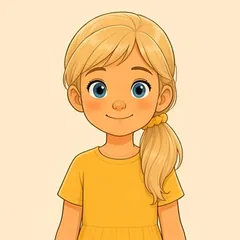
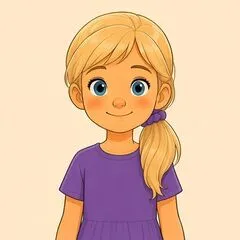
Samantha portrait: purple dress (#20)

diff --git a/friends.html b/friends.html
@@ -32,7 +32,7 @@
 </div></section>
 <section style="padding-top:0"><div class="wrap">
  <picture><source type="image/webp" srcset="assets/garden-friends-720.webp 720w, assets/garden-friends-1200.webp 1200w" sizes="(min-width:700px) 50vw, 100vw"><img class="art" src="assets/garden-friends-720.jpg" srcset="assets/garden-friends-720.jpg 720w, assets/garden-friends-1200.jpg 1200w" sizes="(min-width:700px) 50vw, 100vw" width="1200" height="675" loading="lazy" alt="Gracie sits on a garden bench with her hands folded in prayer, eyes closed and smiling. Pip the Lamb, wearing his blue collar and wooden prayer beads, rests beside her, and Honey the Bumblebee hovers nearby."></picture>
- <ul class="cast"><li><picture class="cast-pic"><source type="image/webp" srcset="assets/gracie-portrait-240.webp 240w, assets/gracie-portrait-480.webp 480w" sizes="88px"><img loading="lazy" src="assets/gracie-portrait-240.jpg" srcset="assets/gracie-portrait-240.jpg 240w, assets/gracie-portrait-480.jpg 480w" sizes="88px" width="240" height="240" alt="Gracie the gardener smiles and waves, wearing her straw hat with a white daisy, a long auburn braid, a yellow shirt, blue overalls and a small gold cross."></picture><h3><span class="emoji" aria-hidden="true">🌻</span>Gracie the gardener</h3><p>Our cheerful big-sister gardener, with a daisy on her straw hat and a little ukulele. Gracie tends the prayer garden and leads the songs and prayers.</p></li><li><picture class="cast-pic"><source type="image/webp" srcset="assets/honey-portrait-240.webp 240w, assets/honey-portrait-480.webp 480w" sizes="88px"><img loading="lazy" src="assets/honey-portrait-240.jpg" srcset="assets/honey-portrait-240.jpg 240w, assets/honey-portrait-480.jpg 480w" sizes="88px" width="240" height="240" alt="Honey the Bumblebee, a round, fuzzy yellow-and-black bee with big brown eyes, curly antennae and a happy smile."></picture><h3><span class="emoji" aria-hidden="true">🐝</span>Honey the Bumblebee</h3><p>A round, friendly bumblebee who buzzes in with a happy “Bzzz!” Honey loves to light the way and cheer everyone on.</p></li><li><picture class="cast-pic"><source type="image/webp" srcset="assets/pip-portrait-240.webp 240w, assets/pip-portrait-480.webp 480w" sizes="88px"><img loading="lazy" src="assets/pip-portrait-240.jpg" srcset="assets/pip-portrait-240.jpg 240w, assets/pip-portrait-480.jpg 480w" sizes="88px" width="240" height="240" alt="Pip the Lamb, a fluffy white boy lamb with big brown eyes and a soft blue collar tied at his neck."></picture><h3><span class="emoji" aria-hidden="true">🐑</span>Pip the Lamb</h3><p>A fluffy little boy lamb with a soft blue collar. Pip is curious and sometimes wanders off, so he knows just how much Jesus, the Good Shepherd, cares for every lamb.</p></li><li><picture class="cast-pic"><source type="image/webp" srcset="assets/ella-portrait-240.webp 240w, assets/ella-portrait-480.webp 480w" sizes="88px"><img loading="lazy" src="assets/ella-portrait-240.jpg" srcset="assets/ella-portrait-240.jpg 240w, assets/ella-portrait-480.jpg 480w" sizes="88px" width="240" height="240" alt="Ella smiles, with two long brown braids and a pink dress with white daisies."></picture><h3><span class="emoji" aria-hidden="true">🌼</span>Ella</h3><p>Kind-hearted and full of wonder, Ella loves making new friends and caring for all of God’s beautiful creatures. You’ll often find her singing a happy song, making crafts, or curled up with a favorite Bible story.</p></li><li><picture class="cast-pic"><source type="image/webp" srcset="assets/lyla-portrait-240.webp 240w, assets/lyla-portrait-480.webp 480w" sizes="88px"><img loading="lazy" src="assets/lyla-portrait-240.jpg" srcset="assets/lyla-portrait-240.jpg 240w, assets/lyla-portrait-480.jpg 480w" sizes="88px" width="240" height="240" alt="Lyla smiles, with long wavy blonde hair worn down and a cream dress with colorful butterflies."></picture><h3><span class="emoji" aria-hidden="true">🦋</span>Lyla</h3><p>Ella’s little sister has long wavy blonde hair and a heart full of giggles and big questions. Lyla loves to sing, make art, and help other kids discover how much Jesus loves them.</p></li><li><picture class="cast-pic"><source type="image/webp" srcset="assets/samantha-portrait-240.webp 240w, assets/samantha-portrait-480.webp 480w" sizes="88px"><img loading="lazy" src="assets/samantha-portrait-240.jpg" srcset="assets/samantha-portrait-240.jpg 240w, assets/samantha-portrait-480.jpg 480w" sizes="88px" width="240" height="240" alt="Samantha smiles, with light golden blonde hair in a side ponytail, blue eyes and a short-sleeve yellow dress."></picture><h3><span class="emoji" aria-hidden="true">🤸</span>Samantha</h3><p>Meet Samantha! Samantha loves gymnastics, making new friends, and all of God’s creatures, and her favorite color is purple. Look for her in our next Bible Adventure, Moses and the Red Sea, coming soon!</p></li><li><picture class="cast-pic"><source type="image/webp" srcset="assets/joy-portrait-240.webp 240w, assets/joy-portrait-480.webp 480w" sizes="88px"><img loading="lazy" src="assets/joy-portrait-240.jpg" srcset="assets/joy-portrait-240.jpg 240w, assets/joy-portrait-480.jpg 480w" sizes="88px" width="240" height="240" alt="Baby Joy sits and smiles, with a wisp of brown hair, rosy cheeks and a plain lavender footed onesie."></picture><h3><span class="emoji" aria-hidden="true">⭐</span>Baby Joy</h3><p>Joy is Ella and Lyla’s baby sister. She can’t say many words yet, but her giggles fill the whole house with happiness!</p></li><li><picture class="cast-pic"><source type="image/webp" srcset="assets/garden-kids-portrait-240.webp 240w, assets/garden-kids-portrait-480.webp 480w" sizes="88px"><img loading="lazy" src="assets/garden-kids-portrait-240.jpg" srcset="assets/garden-kids-portrait-240.jpg 240w, assets/garden-kids-portrait-480.jpg 480w" sizes="88px" width="240" height="240" alt="The Garden Kids in their winter coats: Tommy with round glasses, Josie with curly hair and a yellow headband, and Ben with copper curls and a striped scarf."></picture><h3><span class="emoji" aria-hidden="true">🌷</span>The Garden Kids</h3><p>The friends who play, sing and pray in the garden, and who are always ready to help someone feel welcome.</p></li></ul>
+ <ul class="cast"><li><picture class="cast-pic"><source type="image/webp" srcset="assets/gracie-portrait-240.webp 240w, assets/gracie-portrait-480.webp 480w" sizes="88px"><img loading="lazy" src="assets/gracie-portrait-240.jpg" srcset="assets/gracie-portrait-240.jpg 240w, assets/gracie-portrait-480.jpg 480w" sizes="88px" width="240" height="240" alt="Gracie the gardener smiles and waves, wearing her straw hat with a white daisy, a long auburn braid, a yellow shirt, blue overalls and a small gold cross."></picture><h3><span class="emoji" aria-hidden="true">🌻</span>Gracie the gardener</h3><p>Our cheerful big-sister gardener, with a daisy on her straw hat and a little ukulele. Gracie tends the prayer garden and leads the songs and prayers.</p></li><li><picture class="cast-pic"><source type="image/webp" srcset="assets/honey-portrait-240.webp 240w, assets/honey-portrait-480.webp 480w" sizes="88px"><img loading="lazy" src="assets/honey-portrait-240.jpg" srcset="assets/honey-portrait-240.jpg 240w, assets/honey-portrait-480.jpg 480w" sizes="88px" width="240" height="240" alt="Honey the Bumblebee, a round, fuzzy yellow-and-black bee with big brown eyes, curly antennae and a happy smile."></picture><h3><span class="emoji" aria-hidden="true">🐝</span>Honey the Bumblebee</h3><p>A round, friendly bumblebee who buzzes in with a happy “Bzzz!” Honey loves to light the way and cheer everyone on.</p></li><li><picture class="cast-pic"><source type="image/webp" srcset="assets/pip-portrait-240.webp 240w, assets/pip-portrait-480.webp 480w" sizes="88px"><img loading="lazy" src="assets/pip-portrait-240.jpg" srcset="assets/pip-portrait-240.jpg 240w, assets/pip-portrait-480.jpg 480w" sizes="88px" width="240" height="240" alt="Pip the Lamb, a fluffy white boy lamb with big brown eyes and a soft blue collar tied at his neck."></picture><h3><span class="emoji" aria-hidden="true">🐑</span>Pip the Lamb</h3><p>A fluffy little boy lamb with a soft blue collar. Pip is curious and sometimes wanders off, so he knows just how much Jesus, the Good Shepherd, cares for every lamb.</p></li><li><picture class="cast-pic"><source type="image/webp" srcset="assets/ella-portrait-240.webp 240w, assets/ella-portrait-480.webp 480w" sizes="88px"><img loading="lazy" src="assets/ella-portrait-240.jpg" srcset="assets/ella-portrait-240.jpg 240w, assets/ella-portrait-480.jpg 480w" sizes="88px" width="240" height="240" alt="Ella smiles, with two long brown braids and a pink dress with white daisies."></picture><h3><span class="emoji" aria-hidden="true">🌼</span>Ella</h3><p>Kind-hearted and full of wonder, Ella loves making new friends and caring for all of God’s beautiful creatures. You’ll often find her singing a happy song, making crafts, or curled up with a favorite Bible story.</p></li><li><picture class="cast-pic"><source type="image/webp" srcset="assets/lyla-portrait-240.webp 240w, assets/lyla-portrait-480.webp 480w" sizes="88px"><img loading="lazy" src="assets/lyla-portrait-240.jpg" srcset="assets/lyla-portrait-240.jpg 240w, assets/lyla-portrait-480.jpg 480w" sizes="88px" width="240" height="240" alt="Lyla smiles, with long wavy blonde hair worn down and a cream dress with colorful butterflies."></picture><h3><span class="emoji" aria-hidden="true">🦋</span>Lyla</h3><p>Ella’s little sister has long wavy blonde hair and a heart full of giggles and big questions. Lyla loves to sing, make art, and help other kids discover how much Jesus loves them.</p></li><li><picture class="cast-pic"><source type="image/webp" srcset="assets/samantha-portrait-240.webp 240w, assets/samantha-portrait-480.webp 480w" sizes="88px"><img loading="lazy" src="assets/samantha-portrait-240.jpg" srcset="assets/samantha-portrait-240.jpg 240w, assets/samantha-portrait-480.jpg 480w" sizes="88px" width="240" height="240" alt="Samantha smiles, with light golden blonde hair in a side ponytail, blue eyes and a short-sleeve purple dress with a purple scrunchie."></picture><h3><span class="emoji" aria-hidden="true">🤸</span>Samantha</h3><p>Meet Samantha! Samantha loves gymnastics, making new friends, and all of God’s creatures, and her favorite color is purple. Look for her in our next Bible Adventure, Moses and the Red Sea, coming soon!</p></li><li><picture class="cast-pic"><source type="image/webp" srcset="assets/joy-portrait-240.webp 240w, assets/joy-portrait-480.webp 480w" sizes="88px"><img loading="lazy" src="assets/joy-portrait-240.jpg" srcset="assets/joy-portrait-240.jpg 240w, assets/joy-portrait-480.jpg 480w" sizes="88px" width="240" height="240" alt="Baby Joy sits and smiles, with a wisp of brown hair, rosy cheeks and a plain lavender footed onesie."></picture><h3><span class="emoji" aria-hidden="true">⭐</span>Baby Joy</h3><p>Joy is Ella and Lyla’s baby sister. She can’t say many words yet, but her giggles fill the whole house with happiness!</p></li><li><picture class="cast-pic"><source type="image/webp" srcset="assets/garden-kids-portrait-240.webp 240w, assets/garden-kids-portrait-480.webp 480w" sizes="88px"><img loading="lazy" src="assets/garden-kids-portrait-240.jpg" srcset="assets/garden-kids-portrait-240.jpg 240w, assets/garden-kids-portrait-480.jpg 480w" sizes="88px" width="240" height="240" alt="The Garden Kids in their winter coats: Tommy with round glasses, Josie with curly hair and a yellow headband, and Ben with copper curls and a striped scarf."></picture><h3><span class="emoji" aria-hidden="true">🌷</span>The Garden Kids</h3><p>The friends who play, sing and pray in the garden, and who are always ready to help someone feel welcome.</p></li></ul>
 </div></section>
 <section class="band-honey"><div class="wrap center">
  <h2>See them in action</h2>

diff --git a/index.html b/index.html
@@ -113,7 +113,7 @@
  <div class="wrap">
   <div class="center"><span class="kicker">Meet the cast</span>
   <h2 id="cast">Friends in the prayer garden</h2></div>
-  <ul class="cast home"><li><picture class="cast-pic"><source type="image/webp" srcset="assets/gracie-portrait-240.webp 240w, assets/gracie-portrait-480.webp 480w" sizes="64px"><img loading="lazy" src="assets/gracie-portrait-240.jpg" srcset="assets/gracie-portrait-240.jpg 240w, assets/gracie-portrait-480.jpg 480w" sizes="64px" width="240" height="240" alt="Gracie the gardener smiles and waves, wearing her straw hat with a white daisy, a long auburn braid, a yellow shirt, blue overalls and a small gold cross."></picture><h3><span class="emoji" aria-hidden="true">🌻</span>Gracie the gardener</h3><p>Our cheerful gardener, with a daisy on her straw hat and a ukulele.</p></li><li><picture class="cast-pic"><source type="image/webp" srcset="assets/honey-portrait-240.webp 240w, assets/honey-portrait-480.webp 480w" sizes="64px"><img loading="lazy" src="assets/honey-portrait-240.jpg" srcset="assets/honey-portrait-240.jpg 240w, assets/honey-portrait-480.jpg 480w" sizes="64px" width="240" height="240" alt="Honey the Bumblebee, a round, fuzzy yellow-and-black bee with big brown eyes, curly antennae and a happy smile."></picture><h3><span class="emoji" aria-hidden="true">🐝</span>Honey the Bumblebee</h3><p>A round, friendly bee with a happy “Bzzz!”</p></li><li><picture class="cast-pic"><source type="image/webp" srcset="assets/pip-portrait-240.webp 240w, assets/pip-portrait-480.webp 480w" sizes="64px"><img loading="lazy" src="assets/pip-portrait-240.jpg" srcset="assets/pip-portrait-240.jpg 240w, assets/pip-portrait-480.jpg 480w" sizes="64px" width="240" height="240" alt="Pip the Lamb, a fluffy white boy lamb with big brown eyes and a soft blue collar tied at his neck."></picture><h3><span class="emoji" aria-hidden="true">🐑</span>Pip the Lamb</h3><p>A fluffy little boy lamb with a soft blue collar.</p></li><li><picture class="cast-pic"><source type="image/webp" srcset="assets/ella-portrait-240.webp 240w, assets/ella-portrait-480.webp 480w" sizes="64px"><img loading="lazy" src="assets/ella-portrait-240.jpg" srcset="assets/ella-portrait-240.jpg 240w, assets/ella-portrait-480.jpg 480w" sizes="64px" width="240" height="240" alt="Ella smiles, with two long brown braids and a pink dress with white daisies."></picture><h3><span class="emoji" aria-hidden="true">🌼</span>Ella</h3><p>Loves daisies, Bible stories and praying along.</p></li><li><picture class="cast-pic"><source type="image/webp" srcset="assets/lyla-portrait-240.webp 240w, assets/lyla-portrait-480.webp 480w" sizes="64px"><img loading="lazy" src="assets/lyla-portrait-240.jpg" srcset="assets/lyla-portrait-240.jpg 240w, assets/lyla-portrait-480.jpg 480w" sizes="64px" width="240" height="240" alt="Lyla smiles, with long wavy blonde hair worn down and a cream dress with colorful butterflies."></picture><h3><span class="emoji" aria-hidden="true">🦋</span>Lyla</h3><p>Ella’s little sister, who loves butterflies.</p></li><li><picture class="cast-pic"><source type="image/webp" srcset="assets/samantha-portrait-240.webp 240w, assets/samantha-portrait-480.webp 480w" sizes="64px"><img loading="lazy" src="assets/samantha-portrait-240.jpg" srcset="assets/samantha-portrait-240.jpg 240w, assets/samantha-portrait-480.jpg 480w" sizes="64px" width="240" height="240" alt="Samantha smiles, with light golden blonde hair in a side ponytail, blue eyes and a short-sleeve yellow dress."></picture><h3><span class="emoji" aria-hidden="true">🤸</span>Samantha</h3><p>Ella and Lyla’s friend, who loves gymnastics.</p></li><li><picture class="cast-pic"><source type="image/webp" srcset="assets/joy-portrait-240.webp 240w, assets/joy-portrait-480.webp 480w" sizes="64px"><img loading="lazy" src="assets/joy-portrait-240.jpg" srcset="assets/joy-portrait-240.jpg 240w, assets/joy-portrait-480.jpg 480w" sizes="64px" width="240" height="240" alt="Baby Joy sits and smiles, with a wisp of brown hair, rosy cheeks and a plain lavender footed onesie."></picture><h3><span class="emoji" aria-hidden="true">⭐</span>Baby Joy</h3><p>Ella and Lyla’s giggly baby sister.</p></li><li><picture class="cast-pic"><source type="image/webp" srcset="assets/garden-kids-portrait-240.webp 240w, assets/garden-kids-portrait-480.webp 480w" sizes="64px"><img loading="lazy" src="assets/garden-kids-portrait-240.jpg" srcset="assets/garden-kids-portrait-240.jpg 240w, assets/garden-kids-portrait-480.jpg 480w" sizes="64px" width="240" height="240" alt="The Garden Kids in their winter coats: Tommy with round glasses, Josie with curly hair and a yellow headband, and Ben with copper curls and a striped scarf."></picture><h3><span class="emoji" aria-hidden="true">🌷</span>The Garden Kids</h3><p>Friends who play, sing and pray in the garden.</p></li></ul>
+  <ul class="cast home"><li><picture class="cast-pic"><source type="image/webp" srcset="assets/gracie-portrait-240.webp 240w, assets/gracie-portrait-480.webp 480w" sizes="64px"><img loading="lazy" src="assets/gracie-portrait-240.jpg" srcset="assets/gracie-portrait-240.jpg 240w, assets/gracie-portrait-480.jpg 480w" sizes="64px" width="240" height="240" alt="Gracie the gardener smiles and waves, wearing her straw hat with a white daisy, a long auburn braid, a yellow shirt, blue overalls and a small gold cross."></picture><h3><span class="emoji" aria-hidden="true">🌻</span>Gracie the gardener</h3><p>Our cheerful gardener, with a daisy on her straw hat and a ukulele.</p></li><li><picture class="cast-pic"><source type="image/webp" srcset="assets/honey-portrait-240.webp 240w, assets/honey-portrait-480.webp 480w" sizes="64px"><img loading="lazy" src="assets/honey-portrait-240.jpg" srcset="assets/honey-portrait-240.jpg 240w, assets/honey-portrait-480.jpg 480w" sizes="64px" width="240" height="240" alt="Honey the Bumblebee, a round, fuzzy yellow-and-black bee with big brown eyes, curly antennae and a happy smile."></picture><h3><span class="emoji" aria-hidden="true">🐝</span>Honey the Bumblebee</h3><p>A round, friendly bee with a happy “Bzzz!”</p></li><li><picture class="cast-pic"><source type="image/webp" srcset="assets/pip-portrait-240.webp 240w, assets/pip-portrait-480.webp 480w" sizes="64px"><img loading="lazy" src="assets/pip-portrait-240.jpg" srcset="assets/pip-portrait-240.jpg 240w, assets/pip-portrait-480.jpg 480w" sizes="64px" width="240" height="240" alt="Pip the Lamb, a fluffy white boy lamb with big brown eyes and a soft blue collar tied at his neck."></picture><h3><span class="emoji" aria-hidden="true">🐑</span>Pip the Lamb</h3><p>A fluffy little boy lamb with a soft blue collar.</p></li><li><picture class="cast-pic"><source type="image/webp" srcset="assets/ella-portrait-240.webp 240w, assets/ella-portrait-480.webp 480w" sizes="64px"><img loading="lazy" src="assets/ella-portrait-240.jpg" srcset="assets/ella-portrait-240.jpg 240w, assets/ella-portrait-480.jpg 480w" sizes="64px" width="240" height="240" alt="Ella smiles, with two long brown braids and a pink dress with white daisies."></picture><h3><span class="emoji" aria-hidden="true">🌼</span>Ella</h3><p>Loves daisies, Bible stories and praying along.</p></li><li><picture class="cast-pic"><source type="image/webp" srcset="assets/lyla-portrait-240.webp 240w, assets/lyla-portrait-480.webp 480w" sizes="64px"><img loading="lazy" src="assets/lyla-portrait-240.jpg" srcset="assets/lyla-portrait-240.jpg 240w, assets/lyla-portrait-480.jpg 480w" sizes="64px" width="240" height="240" alt="Lyla smiles, with long wavy blonde hair worn down and a cream dress with colorful butterflies."></picture><h3><span class="emoji" aria-hidden="true">🦋</span>Lyla</h3><p>Ella’s little sister, who loves butterflies.</p></li><li><picture class="cast-pic"><source type="image/webp" srcset="assets/samantha-portrait-240.webp 240w, assets/samantha-portrait-480.webp 480w" sizes="64px"><img loading="lazy" src="assets/samantha-portrait-240.jpg" srcset="assets/samantha-portrait-240.jpg 240w, assets/samantha-portrait-480.jpg 480w" sizes="64px" width="240" height="240" alt="Samantha smiles, with light golden blonde hair in a side ponytail, blue eyes and a short-sleeve purple dress with a purple scrunchie."></picture><h3><span class="emoji" aria-hidden="true">🤸</span>Samantha</h3><p>Ella and Lyla’s friend, who loves gymnastics.</p></li><li><picture class="cast-pic"><source type="image/webp" srcset="assets/joy-portrait-240.webp 240w, assets/joy-portrait-480.webp 480w" sizes="64px"><img loading="lazy" src="assets/joy-portrait-240.jpg" srcset="assets/joy-portrait-240.jpg 240w, assets/joy-portrait-480.jpg 480w" sizes="64px" width="240" height="240" alt="Baby Joy sits and smiles, with a wisp of brown hair, rosy cheeks and a plain lavender footed onesie."></picture><h3><span class="emoji" aria-hidden="true">⭐</span>Baby Joy</h3><p>Ella and Lyla’s giggly baby sister.</p></li><li><picture class="cast-pic"><source type="image/webp" srcset="assets/garden-kids-portrait-240.webp 240w, assets/garden-kids-portrait-480.webp 480w" sizes="64px"><img loading="lazy" src="assets/garden-kids-portrait-240.jpg" srcset="assets/garden-kids-portrait-240.jpg 240w, assets/garden-kids-portrait-480.jpg 480w" sizes="64px" width="240" height="240" alt="The Garden Kids in their winter coats: Tommy with round glasses, Josie with curly hair and a yellow headband, and Ben with copper curls and a striped scarf."></picture><h3><span class="emoji" aria-hidden="true">🌷</span>The Garden Kids</h3><p>Friends who play, sing and pray in the garden.</p></li></ul>
   <p class="center" style="margin-top:1.2rem"><a class="btn btn-soft" href="friends.html">Get to know everyone</a></p>
  </div>
 </section>
